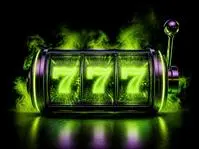
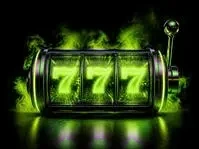
Brand pass: on-palette mascot and colors, reels always read RAVO, mobile fixes
- Mascot: purple studio-background remnants around the ears cut out;
  new emerald avatar (head crop), favicon, apple icon and share image
  (renamed so caches pick them up).
- Purple removed from the palette: rank tiers now run metals to greens,
  tournament player 2 is chrome, Discord button uses Discord's own color,
  loader and avatar ring neon/silver, violet smoke now deep emerald.
- Slot reels rest on their letters before and after the spin, so the
  headline never shows stray symbols ($7$7...) when the animation hasn't run.
- Less noise: floating background symbols removed, neon glow toned down.
- Mobile: navbar fits at 320px (menu button was off screen), taller tap
  targets for footer links, offline stream box no longer clips its heading.
- Unused images removed.

diff --git a/components/home/SlotReels.tsx b/components/home/SlotReels.tsx
@@ -4,14 +4,15 @@ import { motion, useReducedMotion } from "motion/react";
 import { useMemo, useState } from "react";
 import { Chip, Club, Paw, Spade } from "@/components/decor/shapes";
 
-// Hero slot machine: four chrome-framed reels spin through RAVO symbols
-// (paws, chips, suits, 7s, $) and lock one by one on R · A · V · O, a lever
-// pulls as they start, then a neon light sweeps the payline.
+// Hero slot machine: four chrome-framed reels. Each reel rests on its letter
+// (so the headline always reads RAVO: before the spin, without JS, with
+// reduced motion), spins through the symbols once when the site is ready and
+// locks back on R · A · V · O one by one, then a light sweeps the payline.
 
 const SYMBOLS = ["paw", "chip", "spade", "7", "club", "$"] as const;
 type Sym = (typeof SYMBOLS)[number];
 const LETTERS = ["R", "A", "V", "O"];
-const STRIP = 14; // symbols before the letter
+const STRIP = 14; // symbols between the starting and landing letter
 
 function Symbol({ s }: { s: Sym }) {
   if (s === "7" || s === "$") return <span className="font-display text-[0.9em] text-neon/80">{s}</span>;
@@ -19,12 +20,20 @@ function Symbol({ s }: { s: Sym }) {
   return <Cmp className="size-[0.62em] text-neon/70" />;
 }
 
+function Letter({ letter, r }: { letter: string; r: number }) {
+  return (
+    <span className="grid h-[1.15em] w-full place-items-center font-display leading-none">
+      <span className={r % 2 ? "neon-text" : "chrome"}>{letter}</span>
+    </span>
+  );
+}
+
 export function SlotReels({ start }: { start: boolean }) {
   const reduce = useReducedMotion();
   const [landed, setLanded] = useState(0);
   // deterministic strips (no hydration mismatch)
   const strips = useMemo(() => LETTERS.map((_, r) => Array.from({ length: STRIP }, (_, i) => SYMBOLS[(i * 5 + r * 3) % SYMBOLS.length])), []);
-  const all = landed >= LETTERS.length;
+  const all = landed >= LETTERS.length || (start && !!reduce);
 
   return (
     <div className="relative mx-auto flex items-center justify-center gap-[0.12em] text-[clamp(3.4rem,13vw,8.5rem)]" aria-label="RAVO">
@@ -43,21 +52,18 @@ export function SlotReels({ start }: { start: boolean }) {
               className="flex flex-col items-center"
               initial={{ y: 0, filter: "blur(0px)" }}
               animate={
-                start
-                  ? reduce
-                    ? { y: `-${STRIP * 1.15}em` }
-                    : { y: [0, `-${STRIP * 1.15}em`], filter: ["blur(0px)", "blur(3px)", "blur(3px)", "blur(0px)"] }
+                start && !reduce
+                  ? { y: [0, `-${(STRIP + 1) * 1.15}em`], filter: ["blur(0px)", "blur(3px)", "blur(3px)", "blur(0px)"] }
                   : { y: 0 }
               }
               transition={{ duration: reduce ? 0 : 1.1 + r * 0.38, delay: reduce ? 0 : 0.15, ease: [0.2, 0.8, 0.25, 1.06] }}
               onAnimationComplete={() => start && setLanded((n) => n + 1)}
             >
+              <Letter letter={letter} r={r} />
               {strips[r].map((s, i) => (
                 <span key={i} className="grid h-[1.15em] w-full place-items-center"><Symbol s={s} /></span>
               ))}
-              <span className="grid h-[1.15em] w-full place-items-center font-display leading-none">
-                <span className={r % 2 ? "neon-text" : "chrome"}>{letter}</span>
-              </span>
+              <Letter letter={letter} r={r} />
             </motion.div>
             {/* light sweep once every reel has landed */}
             {all && !reduce && (

diff --git a/app/globals.css b/app/globals.css
@@ -1,7 +1,7 @@
 @import "tailwindcss";
 
-/* RAVONEVERSLEEPS — black table, toxic-green neon, chrome spikes, a little
-   violet from the dream world. Tokens first, then the handful of effects the
+/* RAVONEVERSLEEPS — black and charcoal, deep emerald, neon green used
+   sparingly, chrome/silver for the metal. Tokens first, then the handful of effects the
    whole site shares (chrome text, neon frame, pressable button, smoke). */
 
 @theme {
@@ -16,8 +16,9 @@
   --color-neon-bright: #c3ff8f;
   --color-neon-deep: #2e7d12;
   --color-neon-ink: #0b1f04;
-  --color-violet: #9b6bff;
-  --color-violet-deep: #4c2a9e;
+  --color-emerald: #0f3d1f;
+  --color-emerald-deep: #082414;
+  --color-discord: #5865f2;
   --color-gold: #ffd76a;
   --color-silver: #d9e1dc;
   --color-bronze: #e09a5c;
@@ -115,7 +116,7 @@ body {
 }
 .neon-text {
   color: var(--color-neon);
-  text-shadow: 0 0 6px rgb(141 255 74 / 0.75), 0 0 22px rgb(141 255 74 / 0.45), 0 0 48px rgb(141 255 74 / 0.25);
+  text-shadow: 0 0 4px rgb(141 255 74 / 0.5), 0 0 18px rgb(141 255 74 / 0.22);
 }
 .eyebrow {
   font-family: var(--font-pixel);
@@ -184,9 +185,9 @@ body {
 .btn-neon {
   background: linear-gradient(180deg, var(--color-neon-bright), var(--color-neon) 45%, #5fd327);
   color: var(--color-neon-ink);
-  box-shadow: 0 4px 0 0 var(--edge), 0 0 28px rgb(141 255 74 / 0.35);
+  box-shadow: 0 4px 0 0 var(--edge), 0 0 18px rgb(141 255 74 / 0.18);
 }
-.btn-neon:hover { box-shadow: 0 5px 0 0 var(--edge), 0 0 44px rgb(141 255 74 / 0.55); }
+.btn-neon:hover { box-shadow: 0 5px 0 0 var(--edge), 0 0 28px rgb(141 255 74 / 0.35); }
 .btn-ghost {
   --edge: #050805;
   background: var(--color-surface-2);
@@ -194,10 +195,15 @@ body {
   border: 1px solid var(--color-line-hot);
 }
 .btn-ghost:hover { background: var(--color-surface-3); }
-.btn-violet {
-  --edge: #2a1563;
-  background: linear-gradient(180deg, #b896ff, var(--color-violet));
-  color: #12072e;
+.btn-chrome {
+  --edge: #3a4440;
+  background: linear-gradient(180deg, #f4f8f5, var(--color-silver) 45%, #9aa6a0);
+  color: #0a0f0c;
+}
+.btn-discord {
+  --edge: #323a9e;
+  background: var(--color-discord);
+  color: #fff;
 }
 .btn-sm { padding: 0.5rem 0.9rem; font-size: 0.78rem; border-radius: 0.7rem; }
 
@@ -242,7 +248,7 @@ body {
 }
 .smoke-a { background: radial-gradient(circle, #3f9f1c 0%, transparent 65%); top: -30vmax; left: -20vmax; animation: drift-a 26s ease-in-out infinite alternate; }
 .smoke-b { background: radial-gradient(circle, #1f5f10 0%, transparent 60%); bottom: -35vmax; right: -25vmax; animation: drift-b 32s ease-in-out infinite alternate; }
-.smoke-c { background: radial-gradient(circle, #4c2a9e 0%, transparent 60%); top: 30%; left: 55%; width: 45vmax; height: 45vmax; opacity: 0.12; animation: drift-a 40s ease-in-out infinite alternate-reverse; }
+.smoke-c { background: radial-gradient(circle, #0f3d1f 0%, transparent 60%); top: 30%; left: 55%; width: 45vmax; height: 45vmax; opacity: 0.12; animation: drift-a 40s ease-in-out infinite alternate-reverse; }
 @keyframes drift-a { to { transform: translate3d(18vw, 14vh, 0) scale(1.15); } }
 @keyframes drift-b { to { transform: translate3d(-16vw, -12vh, 0) scale(1.1); } }
 .pixel-grid {

diff --git a/components/tournament/parts.tsx b/components/tournament/parts.tsx
@@ -7,7 +7,7 @@ import type { KoMatch, KoParticipant, KoState } from "@/lib/knockout";
 
 // Tournament presentation shared by the admin dashboard, public page and OBS
 // overlay (logic ported from ONO). Player 1 is the neon side, player 2 the
-// violet side; usernames are public Kick chat handles.
+// chrome side; usernames are public Kick chat handles.
 
 /** Round names for a bracket of `size` players (client copy of lib/knockout). */
 export function roundName(size: number, round: number): string {
@@ -58,7 +58,7 @@ export function Counter({ value, max, open }: { value: number; max: number; open
 
 const SIDE = {
   l: { color: "var(--color-neon)", glow: "rgb(141 255 74 / 0.45)", text: "text-neon", anim: "ko-slide-l" },
-  r: { color: "var(--color-violet)", glow: "rgb(155 107 255 / 0.45)", text: "text-violet", anim: "ko-slide-r" },
+  r: { color: "var(--color-silver)", glow: "rgb(217 225 220 / 0.4)", text: "text-silver", anim: "ko-slide-r" },
 };
 
 function Fighter({ p, side, outcome, big, result, pending }: {
@@ -106,7 +106,7 @@ export function VsScreen({ match, size, big = false }: { match: KoMatch; size: n
   return (
     <div className="relative">
       {/* split arena glow */}
-      <div className="pointer-events-none absolute inset-0 -z-10 bg-[radial-gradient(ellipse_at_15%_40%,rgb(141_255_74/0.16),transparent_55%),radial-gradient(ellipse_at_85%_40%,rgb(155_107_255/0.18),transparent_55%)]" />
+      <div className="pointer-events-none absolute inset-0 -z-10 bg-[radial-gradient(ellipse_at_15%_40%,rgb(141_255_74/0.16),transparent_55%),radial-gradient(ellipse_at_85%_40%,rgb(217_225_220/0.12),transparent_55%)]" />
       <p className="mb-5 text-center font-head text-xs font-bold uppercase tracking-[0.22em] text-muted">
         {matchLabel(match, size)}
         {match.status === "live" && <span className="ml-2 rounded-full bg-danger px-2 py-0.5 text-[10px] text-white">● Live</span>}
@@ -286,7 +286,7 @@ export function Bracket({ state }: { state: KoState }) {
 export function ChampionCard({ p, compact = false, celebrate = false }: { p: KoParticipant | null; compact?: boolean; celebrate?: boolean }) {
   const bursts = useMemo(() => Array.from({ length: celebrate ? 28 : 0 }, (_, i) => {
     const a = (i / 28) * Math.PI * 2;
-    return { bx: `${Math.cos(a) * (160 + (i % 4) * 40)}px`, by: `${Math.sin(a) * (120 + (i % 3) * 40)}px`, c: ["var(--color-gold)", "var(--color-neon)", "var(--color-violet)", "var(--color-neon-bright)"][i % 4], d: `${(i % 7) * 0.08}s` };
+    return { bx: `${Math.cos(a) * (160 + (i % 4) * 40)}px`, by: `${Math.sin(a) * (120 + (i % 3) * 40)}px`, c: ["var(--color-gold)", "var(--color-neon)", "var(--color-silver)", "var(--color-neon-bright)"][i % 4], d: `${(i % 7) * 0.08}s` };
   }), [celebrate]);
   if (!p) return <div className="w-full rounded-xl border border-dashed border-line p-4 text-center text-sm text-dim">To be crowned</div>;
   return (

diff --git a/components/tournament/KoDashboard.tsx b/components/tournament/KoDashboard.tsx
@@ -164,7 +164,7 @@ export function KoDashboard({ initial, overlayUrl }: { initial: KoState | null; 
 
           <div className="mt-8 flex flex-wrap justify-center gap-2">
             <button disabled={busy !== null || !canRoll} onClick={() => act("roll")} className="btn btn-neon btn-sm"><Dices className="size-4" /> Roll 2 players</button>
-            <button disabled={busy !== null || !state.pendingRoll} onClick={() => act("confirm")} className="btn btn-violet btn-sm">Confirm battle</button>
+            <button disabled={busy !== null || !state.pendingRoll} onClick={() => act("confirm")} className="btn btn-chrome btn-sm">Confirm battle</button>
             <button disabled={busy !== null || !state.pendingRoll} onClick={() => act("cancel_roll", {}, "Cancel this roll? Both players go back to the pool.")} className="btn btn-ghost btn-sm">Cancel roll</button>
             <button disabled={busy !== null || !!state.live || !!state.pendingRoll || !state.nextReady} onClick={() => act("start")} className="btn btn-neon btn-sm"><Play className="size-4" /> Start battle</button>
             <button disabled={busy !== null || !!state.live} onClick={() => act("next")} className="btn btn-ghost btn-sm"><SkipForward className="size-4" /> Next battle</button>
@@ -262,8 +262,8 @@ function BattleResultForm({ match, busy, onSubmit }: { match: KoMatch; busy: boo
   const m1 = multi(p1), m2 = multi(p2);
   const lead = m1 && m2 ? (Number(m1) > Number(m2) ? 1 : Number(m2) > Number(m1) ? 2 : 0) : null;
   const side = (n: 1 | 2, b: Bonus, set: (v: Bonus) => void, m: string | null) => (
-    <div className={`rounded-2xl border-2 p-3 ${lead === n ? "border-gold/70 bg-gold/10" : n === 1 ? "border-neon/30 bg-bg-2" : "border-violet/30 bg-bg-2"}`}>
-      <p className={`truncate font-head font-bold ${n === 1 ? "text-neon" : "text-violet"}`}>{(n === 1 ? match.p1 : match.p2)?.username ?? `Player ${n}`}</p>
+    <div className={`rounded-2xl border-2 p-3 ${lead === n ? "border-gold/70 bg-gold/10" : n === 1 ? "border-neon/30 bg-bg-2" : "border-silver/30 bg-bg-2"}`}>
+      <p className={`truncate font-head font-bold ${n === 1 ? "text-neon" : "text-silver"}`}>{(n === 1 ? match.p1 : match.p2)?.username ?? `Player ${n}`}</p>
       <div className="mt-2 grid grid-cols-2 gap-2">
         <label className="block"><span className="label">Bonus cost ($)</span>
           <input inputMode="decimal" value={b.cost} onChange={(e) => set({ ...b, cost: e.target.value.trim() })} placeholder="100" className="field text-right font-mono" />

diff --git a/components/shell/Footer.tsx b/components/shell/Footer.tsx
@@ -19,7 +19,7 @@ export function Footer() {
     <footer className="relative mt-40 text-text">
       {/* peeking pug: rises out of the slime, body hidden behind it */}
       <div className="pointer-events-none absolute -top-[5rem] left-[8%] z-0 h-[9rem] w-40 overflow-hidden sm:left-[12%] sm:-top-[5.75rem] sm:h-[11rem] sm:w-48" aria-hidden>
-        <Image src="/media/pug-mascot.webp" alt="" width={192} height={210} className="animate-peek absolute inset-x-0 top-3 h-auto w-full" />
+        <Image src="/media/ravo-mascot.webp" alt="" width={192} height={210} className="animate-peek absolute inset-x-0 top-3 h-auto w-full" />
       </div>
       {/* paws gripping the slime, right side */}
       <div className="pointer-events-none absolute top-4 right-[14%] z-20 hidden gap-4 sm:flex" aria-hidden>
@@ -51,14 +51,14 @@ export function Footer() {
 
           <div className="flex flex-col items-center justify-between gap-8 md:flex-row">
             <Link href="/" className="flex items-center gap-3">
-              <Image src="/media/pfp.webp" alt="" width={52} height={52} className="rounded-full ring-2 ring-neon/50" />
+              <Image src="/media/ravo-avatar.webp" alt="" width={52} height={52} className="rounded-full ring-2 ring-neon/50" />
               <span className="font-display text-4xl leading-none">
                 <span className="chrome">RAVO</span><span className="neon-text">NEVERSLEEPS</span>
               </span>
             </Link>
-            <nav className="flex flex-wrap justify-center gap-x-6 gap-y-2" aria-label="Footer">
+            <nav className="flex flex-wrap justify-center gap-x-6" aria-label="Footer">
               {NAV_FLAT.map((n) => (
-                <Link key={n.href} href={n.href} className="font-head text-sm font-bold uppercase tracking-[0.14em] text-text/80 transition hover:text-neon">{n.label}</Link>
+                <Link key={n.href} href={n.href} className="inline-block py-2 font-head text-sm font-bold uppercase tracking-[0.14em] text-text/80 transition hover:text-neon">{n.label}</Link>
               ))}
             </nav>
             <div className="flex gap-2">

diff --git a/components/stream/StreamBox.tsx b/components/stream/StreamBox.tsx
@@ -15,7 +15,8 @@ export function StreamBox({ live }: { live: LiveStatus }) {
         </p>
         <a href={KICK_URL} target="_blank" rel="noopener noreferrer" className="text-sm text-muted hover:text-neon">kick.com/{KICK_CHANNEL} ↗</a>
       </div>
-      <div className="relative aspect-video bg-black">
+      {/* offline: phones get a taller box so the message never runs under the header */}
+      <div className={`relative bg-black ${live.live ? "aspect-video" : "min-h-[22rem] sm:aspect-video sm:min-h-0"}`}>
         {live.live ? (
           <iframe
             src={`https://player.kick.com/${KICK_CHANNEL}?autoplay=true&muted=true`}
@@ -29,7 +30,7 @@ export function StreamBox({ live }: { live: LiveStatus }) {
             <Image src="/media/banner-chrome.webp" alt="" fill sizes="(min-width: 1152px) 1152px, 100vw" className="object-cover opacity-60 transition duration-700 group-hover:scale-105 group-hover:opacity-75" />
             <div className="absolute inset-0 bg-[radial-gradient(ellipse_at_center,transparent_20%,rgb(4_6_5/0.85)_85%)]" />
             <div className="absolute inset-x-0 bottom-0 flex flex-col items-center gap-3 p-6 text-center sm:p-10">
-              <p className="font-display text-4xl sm:text-6xl"><span className="chrome">Ravo is</span> <span className="neon-text">resting his eyes</span></p>
+              <p className="font-display text-[2.1rem] leading-[0.95] sm:text-6xl"><span className="chrome">Ravo is</span> <span className="neon-text">resting his eyes</span></p>
               <p className="max-w-md text-sm text-text/70">{live.followers ? `${live.followers.toLocaleString("en-US")} followers · ` : ""}Follow on Kick to get pinged the second he goes live.</p>
               <span className="btn btn-neon mt-2"><SocialIcon name="kick" className="size-4" /> Follow on Kick</span>
             </div>

diff --git a/app/(site)/loading.tsx b/app/(site)/loading.tsx
@@ -6,9 +6,9 @@ export default function Loading() {
       <div className="flex flex-col items-center">
         <div className="relative size-24">
           <div className="absolute inset-0 rounded-full border-2 border-neon/15" />
-          <div className="absolute inset-0 animate-spin rounded-full border-2 border-transparent border-t-neon border-r-violet/70 [animation-duration:0.9s] [filter:drop-shadow(0_0_8px_var(--color-neon))]" />
+          <div className="absolute inset-0 animate-spin rounded-full border-2 border-transparent border-t-neon border-r-silver/50 [animation-duration:0.9s] [filter:drop-shadow(0_0_8px_var(--color-neon))]" />
           {/* eslint-disable-next-line @next/next/no-img-element */}
-          <img src="/media/pug-mascot.webp" alt="" draggable={false} className="absolute inset-3 m-auto size-[calc(100%-1.5rem)] animate-spin-slow object-contain [animation-duration:2.8s]" />
+          <img src="/media/ravo-mascot.webp" alt="" draggable={false} className="absolute inset-3 m-auto size-[calc(100%-1.5rem)] animate-spin-slow object-contain [animation-duration:2.8s]" />
         </div>
         <p className="mt-4 font-pixel text-xs uppercase tracking-[0.3em] text-muted">Loading</p>
       </div>

diff --git a/components/shell/TopBar.tsx b/components/shell/TopBar.tsx
@@ -94,10 +94,10 @@ export function TopBar({ viewer, live }: { viewer: TopBarViewer | null; live: bo
         }`}
       >
         <Link href="/" className="group flex items-center gap-2.5" aria-label="RAVONEVERSLEEPS home">
-          <span className="relative block size-10 overflow-hidden rounded-full ring-2 ring-violet/60 transition group-hover:ring-neon group-hover:shadow-[0_0_22px_rgb(141_255_74/0.55)]">
-            <Image src="/media/pfp.webp" alt="" fill sizes="40px" className="object-cover transition duration-500 group-hover:scale-110" priority />
+          <span className="relative block size-10 overflow-hidden rounded-full ring-2 ring-neon/40 transition group-hover:ring-neon group-hover:shadow-[0_0_22px_rgb(141_255_74/0.55)]">
+            <Image src="/media/ravo-avatar.webp" alt="" fill sizes="40px" className="object-cover transition duration-500 group-hover:scale-110" priority />
           </span>
-          <span className="font-display text-[1.6rem] leading-none tracking-wide">
+          <span className="font-display text-[1.6rem] leading-none tracking-wide max-[359px]:hidden">
             <span className="chrome">RAVO</span>
           </span>
           <LiveBadge live={live} />

diff --git a/app/layout.tsx b/app/layout.tsx
@@ -15,15 +15,15 @@ export const metadata: Metadata = {
   metadataBase: new URL(process.env.URL || SITE_URL),
   title: { default: `${SITE_NAME} · Leaderboard, Store & Raffles`, template: `%s · ${SITE_NAME}` },
   description: SITE_TAGLINE,
-  icons: { icon: "/icon.png" },
+  icons: { icon: "/ravo-icon.png", apple: "/apple-icon.png" },
   openGraph: {
     type: "website",
     siteName: SITE_NAME,
     title: `${SITE_NAME} · Code RAVO50 for a $50 bonus`,
     description: SITE_TAGLINE,
-    images: [{ url: "/og-v3.jpg", width: 1200, height: 630, alt: "RAVONEVERSLEEPS: code RAVO50, $50 bonus on Qzino" }],
+    images: [{ url: "/og-v4.jpg", width: 1200, height: 630, alt: "RAVONEVERSLEEPS: code RAVO50, $50 bonus on Qzino" }],
   },
-  twitter: { card: "summary_large_image", images: ["/og-v3.jpg"] },
+  twitter: { card: "summary_large_image", images: ["/og-v4.jpg"] },
 };
 
 export const viewport: Viewport = { themeColor: "#040605" };

diff --git a/lib/ranks.ts b/lib/ranks.ts
@@ -21,9 +21,9 @@ export const TIERS: Tier[] = [
   { name: "Restless", from: 6, color: "#b08d57", glow: "rgba(176,141,87,.4)" },
   { name: "Night Owl", from: 11, color: "#c0c7cf", glow: "rgba(192,199,207,.4)" },
   { name: "Insomniac", from: 16, color: "#e7c25a", glow: "rgba(231,194,90,.45)" },
-  { name: "Midnight", from: 21, color: "#5ad7ff", glow: "rgba(90,215,255,.45)" },
-  { name: "Nocturnal", from: 26, color: "#6f8bff", glow: "rgba(111,139,255,.5)" },
-  { name: "Sleepless", from: 31, color: "#b07bff", glow: "rgba(176,123,255,.5)" },
+  { name: "Midnight", from: 21, color: "#e3ebe6", glow: "rgba(227,235,230,.45)" },
+  { name: "Nocturnal", from: 26, color: "#2fbf71", glow: "rgba(47,191,113,.5)" },
+  { name: "Sleepless", from: 31, color: "#74e6a8", glow: "rgba(116,230,168,.5)" },
   { name: "Never Sleeps", from: 36, color: "#7dff3a", glow: "rgba(125,255,58,.55)" },
 ];
 

diff --git a/app/(site)/account/page.tsx b/app/(site)/account/page.tsx
@@ -26,7 +26,7 @@ export default async function AccountPage({ searchParams }: { searchParams: Prom
         <div className="panel neon-frame is-on relative overflow-hidden p-8 text-center">
           <div className="relative mx-auto h-36 w-32">
             <div className="absolute inset-4 rounded-full bg-neon/25 blur-2xl" />
-            <Image src="/media/pug-mascot.webp" alt="" fill sizes="128px" className="animate-dance object-contain" />
+            <Image src="/media/ravo-mascot.webp" alt="" fill sizes="128px" className="animate-dance object-contain" />
           </div>
           <h1 className="mt-6 font-display text-5xl"><span className="chrome">Sign</span> <span className="neon-text">in</span></h1>
           <p className="mx-auto mt-3 max-w-sm text-sm text-muted">Track your points and rank, redeem rewards in the store and join raffles.</p>

diff --git a/components/shell/NotFoundBody.tsx b/components/shell/NotFoundBody.tsx
@@ -9,7 +9,7 @@ export function NotFoundBody() {
     <div className="mx-auto max-w-3xl px-4 pb-10 pt-6 text-center sm:px-6">
       <div className="relative mx-auto h-56 w-52">
         <div className="absolute inset-6 rounded-full bg-neon/20 blur-3xl" />
-        <Image src="/media/pug-mascot.webp" alt="" fill sizes="208px" className="animate-dance object-contain" priority />
+        <Image src="/media/ravo-mascot.webp" alt="" fill sizes="208px" className="animate-dance object-contain" priority />
       </div>
       <p className="mt-2 font-display text-[clamp(5rem,20vw,9rem)] leading-none"><span className="chrome">4</span><span className="neon-text">0</span><span className="chrome">4</span></p>
       <h1 className="mt-2 font-display text-4xl"><span className="chrome">Lost in</span> <span className="neon-text">the dream</span></h1>
